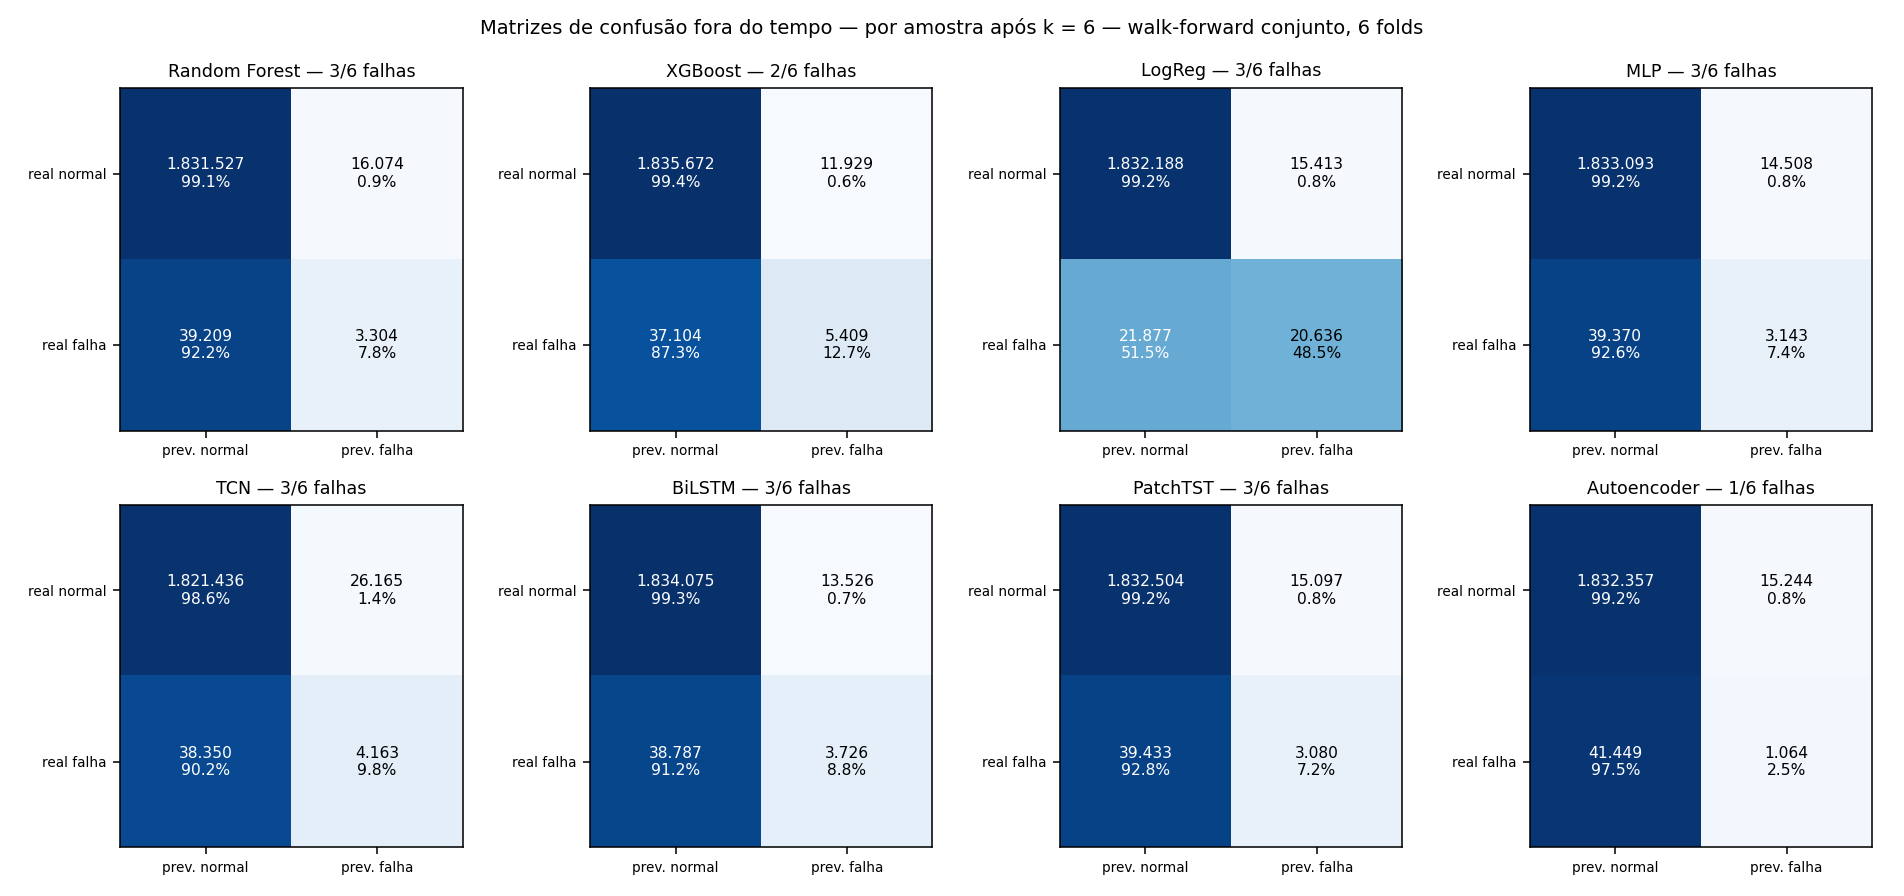
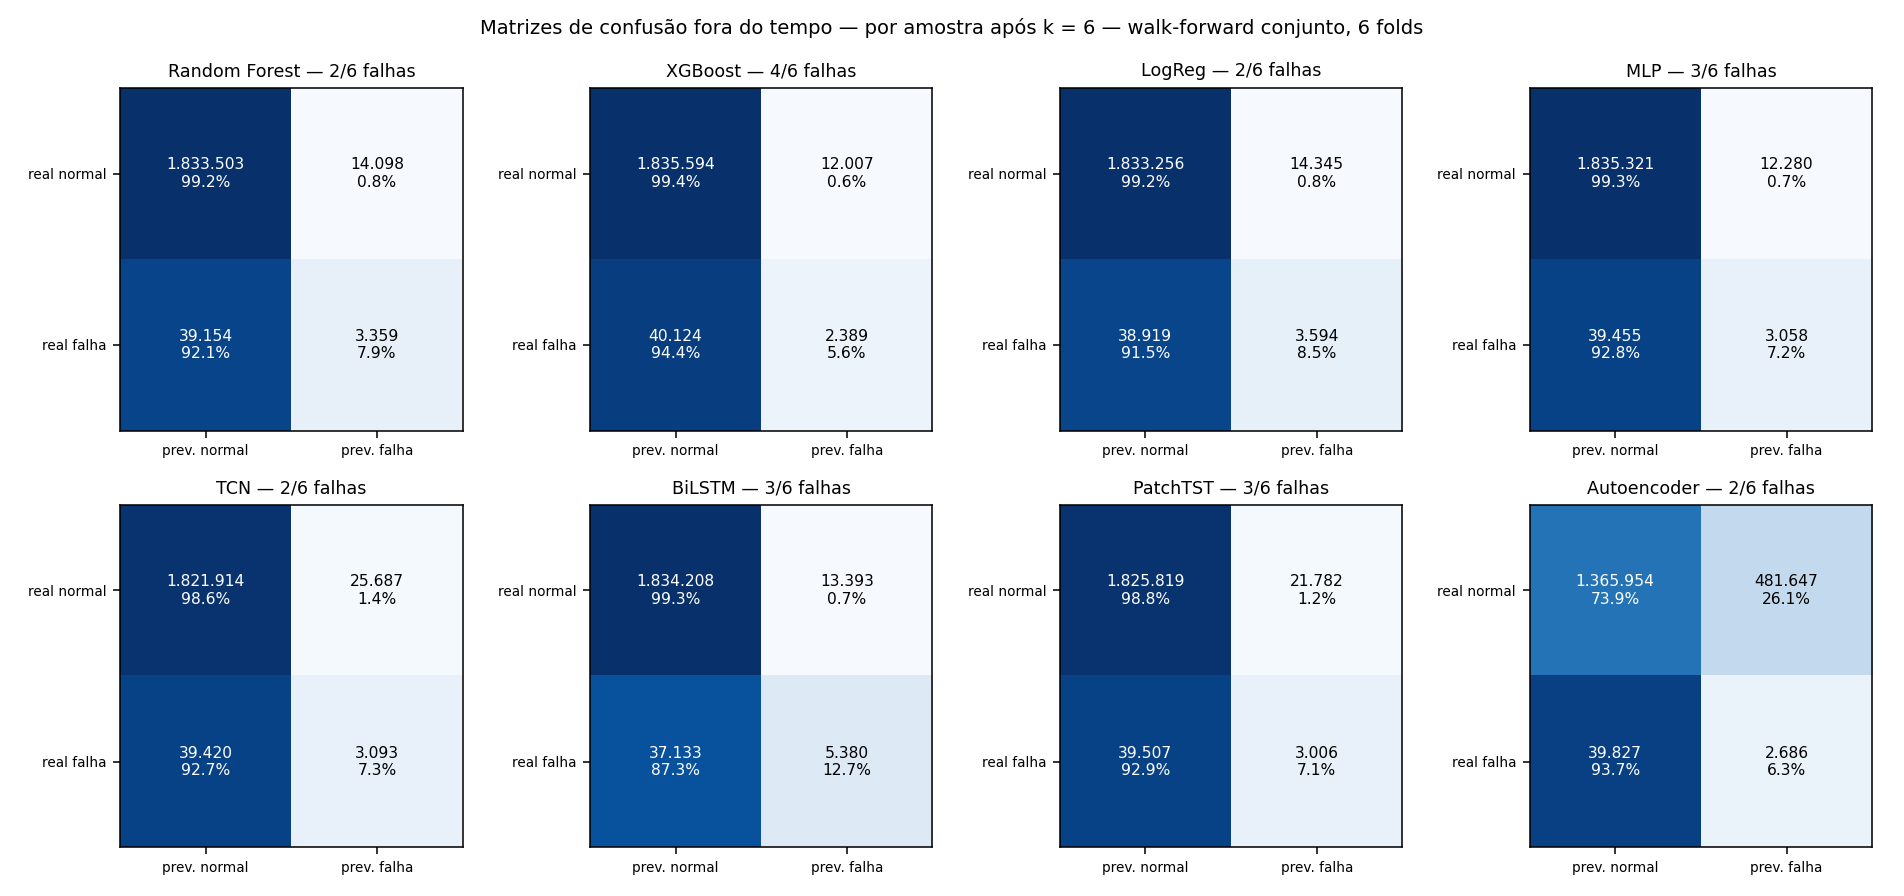
docs: report nested evaluation, sensitivity, ACI and pooled RUL

diff --git a/docs/model_evaluation_leakfree.md b/docs/model_evaluation_leakfree.md
@@ -1,88 +1,110 @@
-# Avaliação sem vazamento de todos os modelos — matrizes de confusão
+# Avaliação de doutorado de todos os modelos — protocolo aninhado
 
-> Gerado por `python -m src.render_all_models_report` a partir de `apps/ml/models/eval_all_models.json`. Não edite à mão.
+> Gerado por `python -m src.render_nested_report` a partir de `apps/ml/models/nested/*.json`. Não edite à mão.
 
-**Protocolo.** MetroPT-3 (2020) + MetroPT 2022, sensores harmonizados (sem `Reservoirs`/`Oil_level`), walk-forward purgado por evento: 7 falhas → **6 folds fora do tempo**. Cada fold treina só com o passado, escolhe o limiar só com dados de treino e é testado numa falha que o modelo nunca viu. Balanceamento de classes **apenas no treino**; o teste mantém a proporção real (≈ 2 % de amostras de falha). Árvores: limiar por custo em predições out-of-fold; redes: limiar por custo na falha de treino mais recente (validação temporal). Seed 0.
+## Protocolo
 
-As matrizes somam os 6 folds de teste. A matriz do modelo final medida nos próprios dados de treino seria vazamento e não é reportada.
+* **Dados**: MetroPT-3 (2020) + MetroPT 2022, sensores harmonizados (sem `Reservoirs`/`Oil_level`, que mudam de significado entre os datasets).
+* **Loop externo**: walk-forward purgado por evento, 7 falhas → **6 folds fora do tempo**; cada fold treina só com o passado e é testado numa falha que o modelo nunca viu.
+* **Loop interno** (só nos dados de treino): leave-one-failure-out para (i) escolher os hiperparâmetros pelo custo esperado RN-02, (ii) calibrar por Platt e (iii) escolher o limiar sobre a probabilidade calibrada. Os parâmetros antigos do Optuna (escolhidos num split aleatório) foram descartados.
+* **Mesmo protocolo para os 8 modelos**, árvores e redes; **3 seeds** (a seed 0 escolhe os hiperparâmetros, as seeds 1–2 medem a variância do treino). Balanceamento de classes só no treino; teste na prevalência real.
+* **Fold 1** tem uma única falha de treino: não há o que validar internamente, então usa os hiperparâmetros padrão e limiar a priori (registrado como *fallback*).
 
-## Por evento — o que importa para a manutenção
+## Por evento — 6 falhas fora do tempo, média de 3 seeds
 
-| Modelo | Artefato | Falhas detectadas | Falhas perdidas | Episódios de falso alarme | Custo esperado médio |
+| Modelo | Artefato | Falhas detectadas (média [mín; máx]) | Episódios de falso alarme | Custo esperado médio | ECE bruto → calibrado |
 |---|---|---|---|---|---|
-| Random Forest | `random_forest_v3` | **3/6** | 3 | 56 | 59.3 |
-| XGBoost | `xgboost_v3` | **2/6** | 4 | 4 | 67.3 |
-| LogReg (baseline) | `—` | **3/6** | 3 | 29 | 54.8 |
-| MLP | `mlp_v2` | **3/6** | 3 | 99 | 66.5 |
-| TCN | `tcn_v2` | **3/6** | 3 | 14 | 52.3 |
-| BiLSTM | `bilstm_v2` | **3/6** | 3 | 12 | 52.0 |
-| PatchTST | `patchtst_v2` | **3/6** | 3 | 272 | 95.3 |
-| Autoencoder | `autoencoder_v2` | **1/6** | 5 | 179 | 113.2 |
+| Random Forest | `random_forest_v3` | **2.0** [2; 2] | 30 | 71.6 | 0.028 → 0.033 |
+| XGBoost | `xgboost_v3` | **3.3** [3; 4] | 12 | 46.5 | 0.029 → 0.036 |
+| LogReg | `—` | **2.0** [2; 2] | 16 | 69.3 | 0.021 → 0.037 |
+| MLP | `mlp_v2` | **3.0** [3; 3] | 10 | 51.7 | 0.023 → 0.036 |
+| TCN | `tcn_v2` | **2.0** [2; 2] | 18 | 69.7 | 0.023 → 0.036 |
+| BiLSTM | `bilstm_v2` | **3.0** [3; 3] | 19 | 53.2 | 0.031 → 0.035 |
+| PatchTST | `patchtst_v2` | **3.0** [3; 3] | 127 | 71.2 | 0.031 → 0.039 |
+| Autoencoder | `autoencoder_v2` | **2.0** [2; 2] | 216 | 102.7 | — |
 
-## Por amostra, após a persistência k = 6 (alarme visto pelo operador)
+## Matrizes de confusão — por amostra após k = 6 (seed 0)
 
 ![Matrizes de confusão — alarmes](figures-ml/confusion_alarms.png)
 
 | Modelo | TP | FP | FN | TN | Precisão | Recall | Especificidade | F1 |
 |---|---|---|---|---|---|---|---|---|
-| Random Forest | 3.304 | 16.074 | 39.209 | 1.831.527 | 17.1% | 7.8% | 99.1% | 10.7% |
-| XGBoost | 5.409 | 11.929 | 37.104 | 1.835.672 | 31.2% | 12.7% | 99.4% | 18.1% |
-| LogReg (baseline) | 20.636 | 15.413 | 21.877 | 1.832.188 | 57.2% | 48.5% | 99.2% | 52.5% |
-| MLP | 3.143 | 14.508 | 39.370 | 1.833.093 | 17.8% | 7.4% | 99.2% | 10.4% |
-| TCN | 4.163 | 26.165 | 38.350 | 1.821.436 | 13.7% | 9.8% | 98.6% | 11.4% |
-| BiLSTM | 3.726 | 13.526 | 38.787 | 1.834.075 | 21.6% | 8.8% | 99.3% | 12.5% |
-| PatchTST | 3.080 | 15.097 | 39.433 | 1.832.504 | 16.9% | 7.2% | 99.2% | 10.1% |
-| Autoencoder | 1.064 | 15.244 | 41.449 | 1.832.357 | 6.5% | 2.5% | 99.2% | 3.6% |
+| Random Forest | 3.359 | 14.098 | 39.154 | 1.833.503 | 19.2% | 7.9% | 99.2% | 11.2% |
+| XGBoost | 2.389 | 12.007 | 40.124 | 1.835.594 | 16.6% | 5.6% | 99.4% | 8.4% |
+| LogReg | 3.594 | 14.345 | 38.919 | 1.833.256 | 20.0% | 8.5% | 99.2% | 11.9% |
+| MLP | 3.058 | 12.280 | 39.455 | 1.835.321 | 19.9% | 7.2% | 99.3% | 10.6% |
+| TCN | 3.093 | 25.687 | 39.420 | 1.821.914 | 10.7% | 7.3% | 98.6% | 8.7% |
+| BiLSTM | 5.380 | 13.393 | 37.133 | 1.834.208 | 28.7% | 12.7% | 99.3% | 17.6% |
+| PatchTST | 3.006 | 21.782 | 39.507 | 1.825.819 | 12.1% | 7.1% | 98.8% | 8.9% |
+| Autoencoder | 2.686 | 481.647 | 39.827 | 1.365.954 | 0.6% | 6.3% | 73.9% | 1.0% |
 
-## Por amostra, no limiar (sem persistência)
+Por amostra no limiar, sem persistência: ![Matrizes de confusão — amostras](figures-ml/confusion_samples.png)
 
-![Matrizes de confusão — amostras](figures-ml/confusion_samples.png)
-
-| Modelo | TP | FP | FN | TN | Precisão | Recall | F1 |
-|---|---|---|---|---|---|---|---|
-| Random Forest | 3.348 | 16.552 | 39.165 | 1.831.049 | 16.8% | 7.9% | 10.7% |
-| XGBoost | 5.548 | 11.958 | 36.965 | 1.835.643 | 31.7% | 13.1% | 18.5% |
-| LogReg (baseline) | 20.721 | 16.911 | 21.792 | 1.830.690 | 55.1% | 48.7% | 51.7% |
-| MLP | 3.173 | 18.394 | 39.340 | 1.829.207 | 14.7% | 7.5% | 9.9% |
-| TCN | 4.566 | 26.213 | 37.947 | 1.821.388 | 14.8% | 10.7% | 12.5% |
-| BiLSTM | 5.348 | 13.596 | 37.165 | 1.834.005 | 28.2% | 12.6% | 17.4% |
-| PatchTST | 3.091 | 21.066 | 39.422 | 1.826.535 | 12.8% | 7.3% | 9.3% |
-| Autoencoder | 1.100 | 18.864 | 41.413 | 1.828.737 | 5.5% | 2.6% | 3.5% |
-
-## Detecção por falha (cada fold testa uma falha)
+## Detecção por falha (seed 0) e hiperparâmetros escolhidos
 
 | Modelo | fold 1 | fold 2 | fold 3 | fold 4 | fold 5 | fold 6 |
 |---|---|---|---|---|---|---|
-| Random Forest | ✅ (2020, limiar 0.5) | ❌ (2020, limiar 0.8) | ✅ (2020, limiar 0.1) | ✅ (2022, limiar 0.2) | ❌ (2022, limiar 0.25) | ❌ (2022, limiar 0.25) |
-| XGBoost | ✅ (2020, limiar 0.5) | ✅ (2020, limiar 0.55) | ❌ (2020, limiar 0.8) | ❌ (2022, limiar 0.9) | ❌ (2022, limiar 0.6) | ❌ (2022, limiar 0.7) |
-| LogReg (baseline) | ✅ (2020, limiar 0.5) | ✅ (2020, limiar 0.15) | ❌ (2020, limiar 0.8) | ✅ (2022, limiar 0.95) | ❌ (2022, limiar 0.35) | ❌ (2022, limiar 0.55) |
-| MLP | ✅ (2020, limiar 0.5) | ✅ (2020, limiar 0.995) | ❌ (2020, limiar 0.99) | ✅ (2022, limiar 0.5) | ❌ (2022, limiar 0.995) | ❌ (2022, limiar 0.995) |
-| TCN | ✅ (2020, limiar 0.5) | ✅ (2020, limiar 0.995) | ❌ (2020, limiar 0.99) | ✅ (2022, limiar 0.995) | ❌ (2022, limiar 0.995) | ❌ (2022, limiar 0.995) |
-| BiLSTM | ✅ (2020, limiar 0.5) | ✅ (2020, limiar 0.995) | ❌ (2020, limiar 0.995) | ✅ (2022, limiar 0.995) | ❌ (2022, limiar 0.995) | ❌ (2022, limiar 0.995) |
-| PatchTST | ✅ (2020, limiar 0.5) | ✅ (2020, limiar 0.995) | ❌ (2020, limiar 0.995) | ✅ (2022, limiar 0.995) | ❌ (2022, limiar 0.97) | ❌ (2022, limiar 0.995) |
-| Autoencoder | ❌ (2020, limiar 0.203) | ❌ (2020, limiar 0.497) | ❌ (2020, limiar 0.302) | ✅ (2022, limiar 0.112) | ❌ (2022, limiar 0.231) | ❌ (2022, limiar 0.179) |
+| Random Forest | ✅ `max_depth=20, min_samples_leaf=1, max_features=sqrt` | ❌ `max_depth=None, min_samples_leaf=20, max_features=sqrt` | ❌ `max_depth=None, min_samples_leaf=20, max_features=sqrt` | ✅ `max_depth=10, min_samples_leaf=1, max_features=sqrt` | ❌ `max_depth=20, min_samples_leaf=1, max_features=sqrt` | ❌ `max_depth=20, min_samples_leaf=1, max_features=sqrt` |
+| XGBoost | ✅ `max_depth=6, learning_rate=0.1, n_estimators=300, subsample=0.9, colsample_bytree=0.8` | ✅ `max_depth=6, learning_rate=0.2, n_estimators=150, subsample=0.7, colsample_bytree=0.5` | ✅ `max_depth=4, learning_rate=0.05, n_estimators=600, subsample=0.8, colsample_bytree=0.6` | ✅ `max_depth=6, learning_rate=0.1, n_estimators=300, subsample=0.9, colsample_bytree=0.8` | ❌ `max_depth=4, learning_rate=0.05, n_estimators=600, subsample=0.8, colsample_bytree=0.6` | ❌ `max_depth=6, learning_rate=0.2, n_estimators=150, subsample=0.7, colsample_bytree=0.5` |
+| LogReg | ✅ `C=1.0` | ❌ `C=0.1` | ❌ `C=10.0` | ✅ `C=0.01` | ❌ `C=0.01` | ❌ `C=0.01` |
+| MLP | ✅ `epochs=8, lr=0.001` | ✅ `epochs=16, lr=0.0003` | ❌ `epochs=8, lr=0.001` | ✅ `epochs=16, lr=0.0003` | ❌ `epochs=8, lr=0.001` | ❌ `epochs=8, lr=0.001` |
+| TCN | ✅ `epochs=8, lr=0.001` | ❌ `epochs=16, lr=0.0003` | ❌ `epochs=8, lr=0.001` | ✅ `epochs=16, lr=0.0003` | ❌ `epochs=16, lr=0.0003` | ❌ `epochs=8, lr=0.001` |
+| BiLSTM | ✅ `epochs=8, lr=0.001` | ✅ `epochs=8, lr=0.001` | ❌ `epochs=16, lr=0.0003` | ✅ `epochs=16, lr=0.0003` | ❌ `epochs=8, lr=0.001` | ❌ `epochs=8, lr=0.001` |
+| PatchTST | ✅ `epochs=8, lr=0.001` | ✅ `epochs=8, lr=0.001` | ❌ `epochs=16, lr=0.0003` | ✅ `epochs=16, lr=0.0003` | ❌ `epochs=16, lr=0.0003` | ❌ `epochs=8, lr=0.001` |
+| Autoencoder | ❌ `epochs=8, lr=0.001` | ❌ `epochs=8, lr=0.001` | ✅ `epochs=16, lr=0.0003` | ✅ `epochs=8, lr=0.001` | ❌ `epochs=8, lr=0.001` | ❌ `epochs=8, lr=0.001` |
 
-Folds 1–3 testam as falhas 2–4 de 2020; folds 4–6 testam as 3 falhas de 2022 (vazamento de ar nos consumidores, válvula do secador de ar, vazamento de óleo).
+Folds 1–3: falhas 2–4 de 2020. Folds 4–6: as 3 falhas de 2022 (vazamento de ar nos consumidores, válvula do secador de ar, vazamento de óleo).
 
 ## Gate RN-05 contra o champion (`random_forest_v3`)
 
-Wilcoxon unilateral pareado por fold, custo esperado; p mínimo atingível com 6 folds = 0,016.
+Wilcoxon unilateral pareado por fold (custo médio das 3 seeds); p mínimo atingível com 6 folds = 0,016.
 
 | Candidato | Melhora mediana | p | Promove? |
 |---|---|---|---|
-| XGBoost | -0.5 | 0.688 | não |
-| LogReg (baseline) | -4.0 | 0.844 | não |
-| MLP | -0.5 | 0.688 | não |
-| TCN | +0.0 | 0.562 | não |
-| BiLSTM | +0.0 | 0.562 | não |
-| PatchTST | -1.5 | 0.844 | não |
-| Autoencoder | -21.5 | 1.000 | não |
+| XGBoost | +12.8 | 0.125 | não |
+| LogReg | -1.0 | 0.781 | não |
+| MLP | +0.0 | 0.250 | não |
+| TCN | +0.0 | 0.500 | não |
+| BiLSTM | +0.0 | 0.312 | não |
+| PatchTST | +0.0 | 0.562 | não |
+| Autoencoder | -3.7 | 0.922 | não |
 
-## Leitura
+## Sensibilidade às escolhas de avaliação (k, horizonte, razão de custo)
 
-* **Nenhum modelo detecta as falhas 2 e 3 de 2022** (folds 5 e 6: válvula do secador de ar, 30 min; vazamento de óleo). São modos de falha ausentes do treino. O teto atual por evento é 3 de 6 falhas.
-* **Nenhum candidato supera o Random Forest com significância**; por isso o champion continua `random_forest_v3`. BiLSTM e TCN têm o menor custo médio e menos episódios de falso alarme, mas a diferença por fold é nula na mediana.
-* **A regressão logística tem o maior recall por amostra**: acompanha a longa falha de óleo amostra a amostra, mas sem disparar o evento dentro do horizonte de antecedência.
-* **Redes superconfiantes**: TCN, BiLSTM, MLP e PatchTST escolheram o limiar no topo da grade (0,995) na maioria dos folds; os logits chegam a centenas, e a probabilidade fica quase binária. A calibração (por exemplo, *temperature scaling* na validação temporal) é trabalho futuro.
-* **Cards legados** (F1 ≈ 0,96–0,98) vinham de split aleatório, com o limiar ajustado no próprio teste. Os números acima são a medida honesta do que cada modelo faz numa falha futura.
+Grade: k ∈ [3, 6, 12], horizonte ∈ [2.0, 6.0, 12.0] h, C_FN/C_FP ∈ [10.0, 100.0, 1000.0] — 27 configurações; o limiar é re-escolhido nas predições out-of-fold calibradas de cada configuração (sem retreino).
 
+* Estabilidade do ranking por custo (τ de Kendall contra a referência k = 6, 6 h, 100): mediana **0.50**, mínimo 0.21.
+* Melhor modelo por configuração: XGBoost em 13, BiLSTM em 6, MLP em 6, Autoencoder em 2.
+
+| Modelo | Falhas detectadas (mín–máx entre configurações) |
+|---|---|
+| Random Forest | 1.0 – 2.7 |
+| XGBoost | 1.7 – 4.3 |
+| LogReg | 2.0 – 3.0 |
+| MLP | 3.0 – 4.0 |
+| TCN | 2.0 – 2.0 |
+| BiLSTM | 2.3 – 3.7 |
+| PatchTST | 3.0 – 3.7 |
+| Autoencoder | 0.0 – 5.0 |
+
+## Incerteza — conformal estático × adaptativo (ACI), alvo 90%
+
+Conjunto de calibração = predições out-of-fold calibradas (só treino); fluxo de teste fora do tempo. Hipótese: o rótulo de cada linha fica conhecido logo depois (na operação, chega com o veredito da OS).
+
+| Modelo | Cobertura da classe falha: estático → ACI | Cobertura normal: estático → ACI | Tamanho médio do conjunto: estático → ACI |
+|---|---|---|---|
+| Random Forest | 0.51 → **0.90** | 0.91 → 0.90 | 0.93 → 1.20 |
+| XGBoost | 0.46 → **0.90** | 0.83 → 0.90 | 0.84 → 1.03 |
+| LogReg | 0.38 → **0.89** | 0.68 → 0.90 | 0.70 → 1.15 |
+| MLP | 0.21 → **0.89** | 0.94 → 0.90 | 0.93 → 1.06 |
+| TCN | 0.24 → **0.89** | 0.91 → 0.90 | 1.04 → 1.26 |
+| BiLSTM | 0.19 → **0.88** | 0.88 → 0.90 | 0.92 → 1.18 |
+| PatchTST | 0.12 → **0.88** | 0.94 → 0.90 | 0.96 → 1.16 |
+| Autoencoder | 0.54 → **0.91** | 0.95 → 0.90 | 1.06 → 1.15 |
+
+## RUL com as 7 falhas (6 folds)
+
+* XGBoost AFT: C-index 0.48 [0.45; 0.51].
+* Baseline de renovação: C-index 0.65 [0.52; 0.81].
+
+Com 7 falhas o tempo até a falha continua não aprendível pelas features (C-index ≈ 0,5): o resultado negativo do RF-30 se mantém com o dobro de folds.

diff --git a/docs/pesquisa/requisitos-doutorado.md b/docs/pesquisa/requisitos-doutorado.md
@@ -74,11 +74,23 @@ versões e hashes: [`reproducibility_manifest.json`](../reproducibility_manifest
 
 | Achado | Onde | Correção | Evidência |
 |---|---|---|---|
-| Os 7 modelos legados (RF, XGB, MLP, TCN, BiLSTM, PatchTST, AE) usavam split aleatório estratificado e escolhiam o limiar por F2 **no próprio teste**; RF ainda com SMOTE | `train_*.py`, cards `*_v1` | Todos retreinados pela mesma receita sem vazamento: `train_leakfree.py` (árvores → `random_forest_v3`, `xgboost_v3`) e `train_deep_leakfree.py` (redes → `*_v2`); champion passa a ser `random_forest_v3` | [`model_evaluation_leakfree.md`](../model_evaluation_leakfree.md) |
+| Os 7 modelos legados (RF, XGB, MLP, TCN, BiLSTM, PatchTST, AE) usavam split aleatório estratificado e escolhiam o limiar por F2 **no próprio teste**; RF ainda com SMOTE | `train_*.py`, cards `*_v1` | Todos retreinados pelo protocolo aninhado: `train_production.py` (árvores → `random_forest_v3`, `xgboost_v3`; redes → `*_v2`); champion passa a ser `random_forest_v3` | [`model_evaluation_leakfree.md`](../model_evaluation_leakfree.md) |
 | Limiar de evento fixo em 0,7 para qualquer modelo | `EVENT_THRESHOLD` | Evento = alarme persistido **no limiar do próprio modelo** (card); `EVENT_THRESHOLD` vira override opcional | `tests/test_history.py` |
 | Modelos de sequência recebiam **uma única linha** e o adapter repetia essa linha 60 vezes: viam uma janela constante | `inference_pipeline._infer_with_history` | Modelos com janela recebem o buffer inteiro | `tests/test_inference_pipeline.py` |
 | Buffer de 30 leituras para modelos treinados com janelas de 60 | `feature_buffer.SensorBuffer` | Buffer de 60 (as features das árvores olham no máximo 15 para trás) | `tests/test_feature_buffer.py` |
 | Seletor de modelos escondia só a versão base quando havia `_v2` | `frontend/lib/model-name.ts` | Mostra só a maior versão de cada modelo | `__tests__/model-name.test.ts` |
+
+## Protocolo aninhado (quarta rodada) — todos os modelos sob o mesmo rigor
+
+| Lacuna fechada | Implementação | Resultado | Evidência |
+|---|---|---|---|
+| Hiperparâmetros do XGBoost vinham do Optuna num **split aleatório** (vazamento na seleção) | `nested_protocol.py`: busca dentro do treino de cada fold (leave-one-failure-out), objetivo = custo RN-02 out-of-fold | O RF cai de 3 para 2 falhas sem os hiperparâmetros vazados; o XGBoost escolhe árvores rasas (profundidade 4, 600 árvores) | `models/nested/*.json` |
+| Redes com 1 seed e limiar por método diferente do das árvores | Mesmo protocolo para os 8 modelos, 3 seeds; redes em GPU (`apps/ml/.venv-gpu`, torch CUDA) | **XGBoost: 3,3/6 falhas, 12 episódios de falso alarme, custo 46,5** (melhor); RF 2,0/6, custo 71,6 | [`model_evaluation_leakfree.md`](../model_evaluation_leakfree.md) |
+| Gate RN-05 com 6 folds | Wilcoxon pareado por fold, custo médio das seeds | XGBoost × RF: melhora mediana +12,8, **p = 0,125 → não promove**; o RF segue champion e o XGBoost, challenger em shadow | idem |
+| Redes superconfiantes, probabilidade sem significado | Calibração Platt nas predições out-of-fold; nas redes, embutida no ONNX | ECE já baixo (0,02–0,03) e a calibração **não melhora no teste** (0,028 → 0,033 no RF): o shift entre períodos impede a calibração de transferir | idem |
+| Cobertura conformal 0,59–0,68 (não-permutabilidade) | `evaluate_conformal_aci.py`: conformal adaptativo (ACI, Gibbs & Candès 2021), por classe | Cobertura da classe falha **0,12–0,54 (estático) → 0,88–0,91 (ACI)** nos 8 modelos, conjuntos de tamanho médio 1,03–1,26 | `models/eval_conformal_aci.json` |
+| RUL avaliado com só 4 falhas | `evaluate_rul.py --pooled`, rótulos de sobrevivência censurados por dataset | XGBoost AFT C-index **0,48** × 0,65 do baseline de calendário: RUL não aprendível com 7 falhas | `models/eval_rul_pooled.json` |
+| Conclusões dependem de k, horizonte e razão de custo? | `evaluate_sensitivity.py`: k ∈ {3, 6, 12} × horizonte ∈ {2, 6, 12} h × C_FN/C_FP ∈ {10, 100, 1000}, limiar re-escolhido nas predições out-of-fold | **XGBoost é o melhor em 13 de 27 configurações** (BiLSTM e MLP em 6 cada); ranking moderadamente estável (τ de Kendall mediano 0,50, mínimo 0,21). O número de falhas detectadas depende bastante da configuração (XGBoost 1,7–4,3), por isso RN-01/02/03 precisam ficar declarados | `models/eval_sensitivity.json` |
 
 ## Itens refeitos
 

diff --git a/docs/artigo/rascunho-artigo.md b/docs/artigo/rascunho-artigo.md
@@ -104,6 +104,10 @@ Matching columns by name is not enough: in MetroPT-3 `Reservoirs` duplicates `TP
 
 The deployed detector, trained with a random split and SMOTE, scores PR-AUC 1.000 on the 2020 rows it saw and **0.058 on 2022, with zero alarms** — fixing the sensors at its input does not help. A physics twin recalibrated on a few weeks of *normal* 2022 operation detects the first 2022 air leak, whereas the uncalibrated 2020 twin does not; in the pooled walk-forward, late fusion has the lowest expected cost (39.1 vs 51.2 for ML) and the hybrid model is the only one to flag the oil leak (2/3 seeds), though no difference passes the gate. Neither 2022 failure mode outside the training data (air-dryer valve, oil leak) moves the twin's air-balance residuals, which bounds what this twin can see.
 
+### 4.7b Every model under one nested protocol (`docs/model_evaluation_leakfree.md`)
+
+The legacy artefacts — and the Optuna hyper-parameters of XGBoost — had been selected on a random split. Re-running all eight models (RF, XGBoost, logistic regression, MLP, TCN, BiLSTM, PatchTST, Conv1D autoencoder) under one nested protocol — outer purged walk-forward (6 out-of-time folds), inner leave-one-failure-out for hyper-parameters, Platt calibration and the RN-02 threshold, 3 seeds — XGBoost detects 3.3 of 6 failures with 12 false-alarm episodes (expected cost 46.5), the best of the eight, while RF drops to 2 of 6 once its leaked hyper-parameters are removed. The paired one-sided Wilcoxon over folds gives p = 0.125 for XGBoost over RF: with seven failures, even a 13-point median cost improvement cannot be declared significant, so the promotion gate keeps RF as champion and serves XGBoost in shadow. Static split conformal covers only 12–54 % of failure rows out of time; class-conditional adaptive conformal inference restores 88–91 % coverage for every model with mean set sizes of 1.03–1.26. Remaining-useful-life regression stays at chance (C-index 0.48 vs 0.65 for a calendar baseline) even with seven failures.
+
 ### 4.8 Energy (`models/eval_energy.json`, RNF-83)
 
 CodeCarbon (offline, Brazilian grid ≈ 98 gCO₂/kWh), CPU and GPU energy measured by hardware counters, idle power subtracted. Training a model costs 0.02–0.15 Wh; ONNX inference ≈ 0.09 mWh per 1,000 predictions (≈ 0.3 Wh per asset-year at 0.1 Hz). One grounded repair plan from the local 3 B LLM costs 0.072 Wh (0.007 gCO₂) — **as much as ~800,000 predictions**. The footprint of the system is the advisory layer, not the detector.
